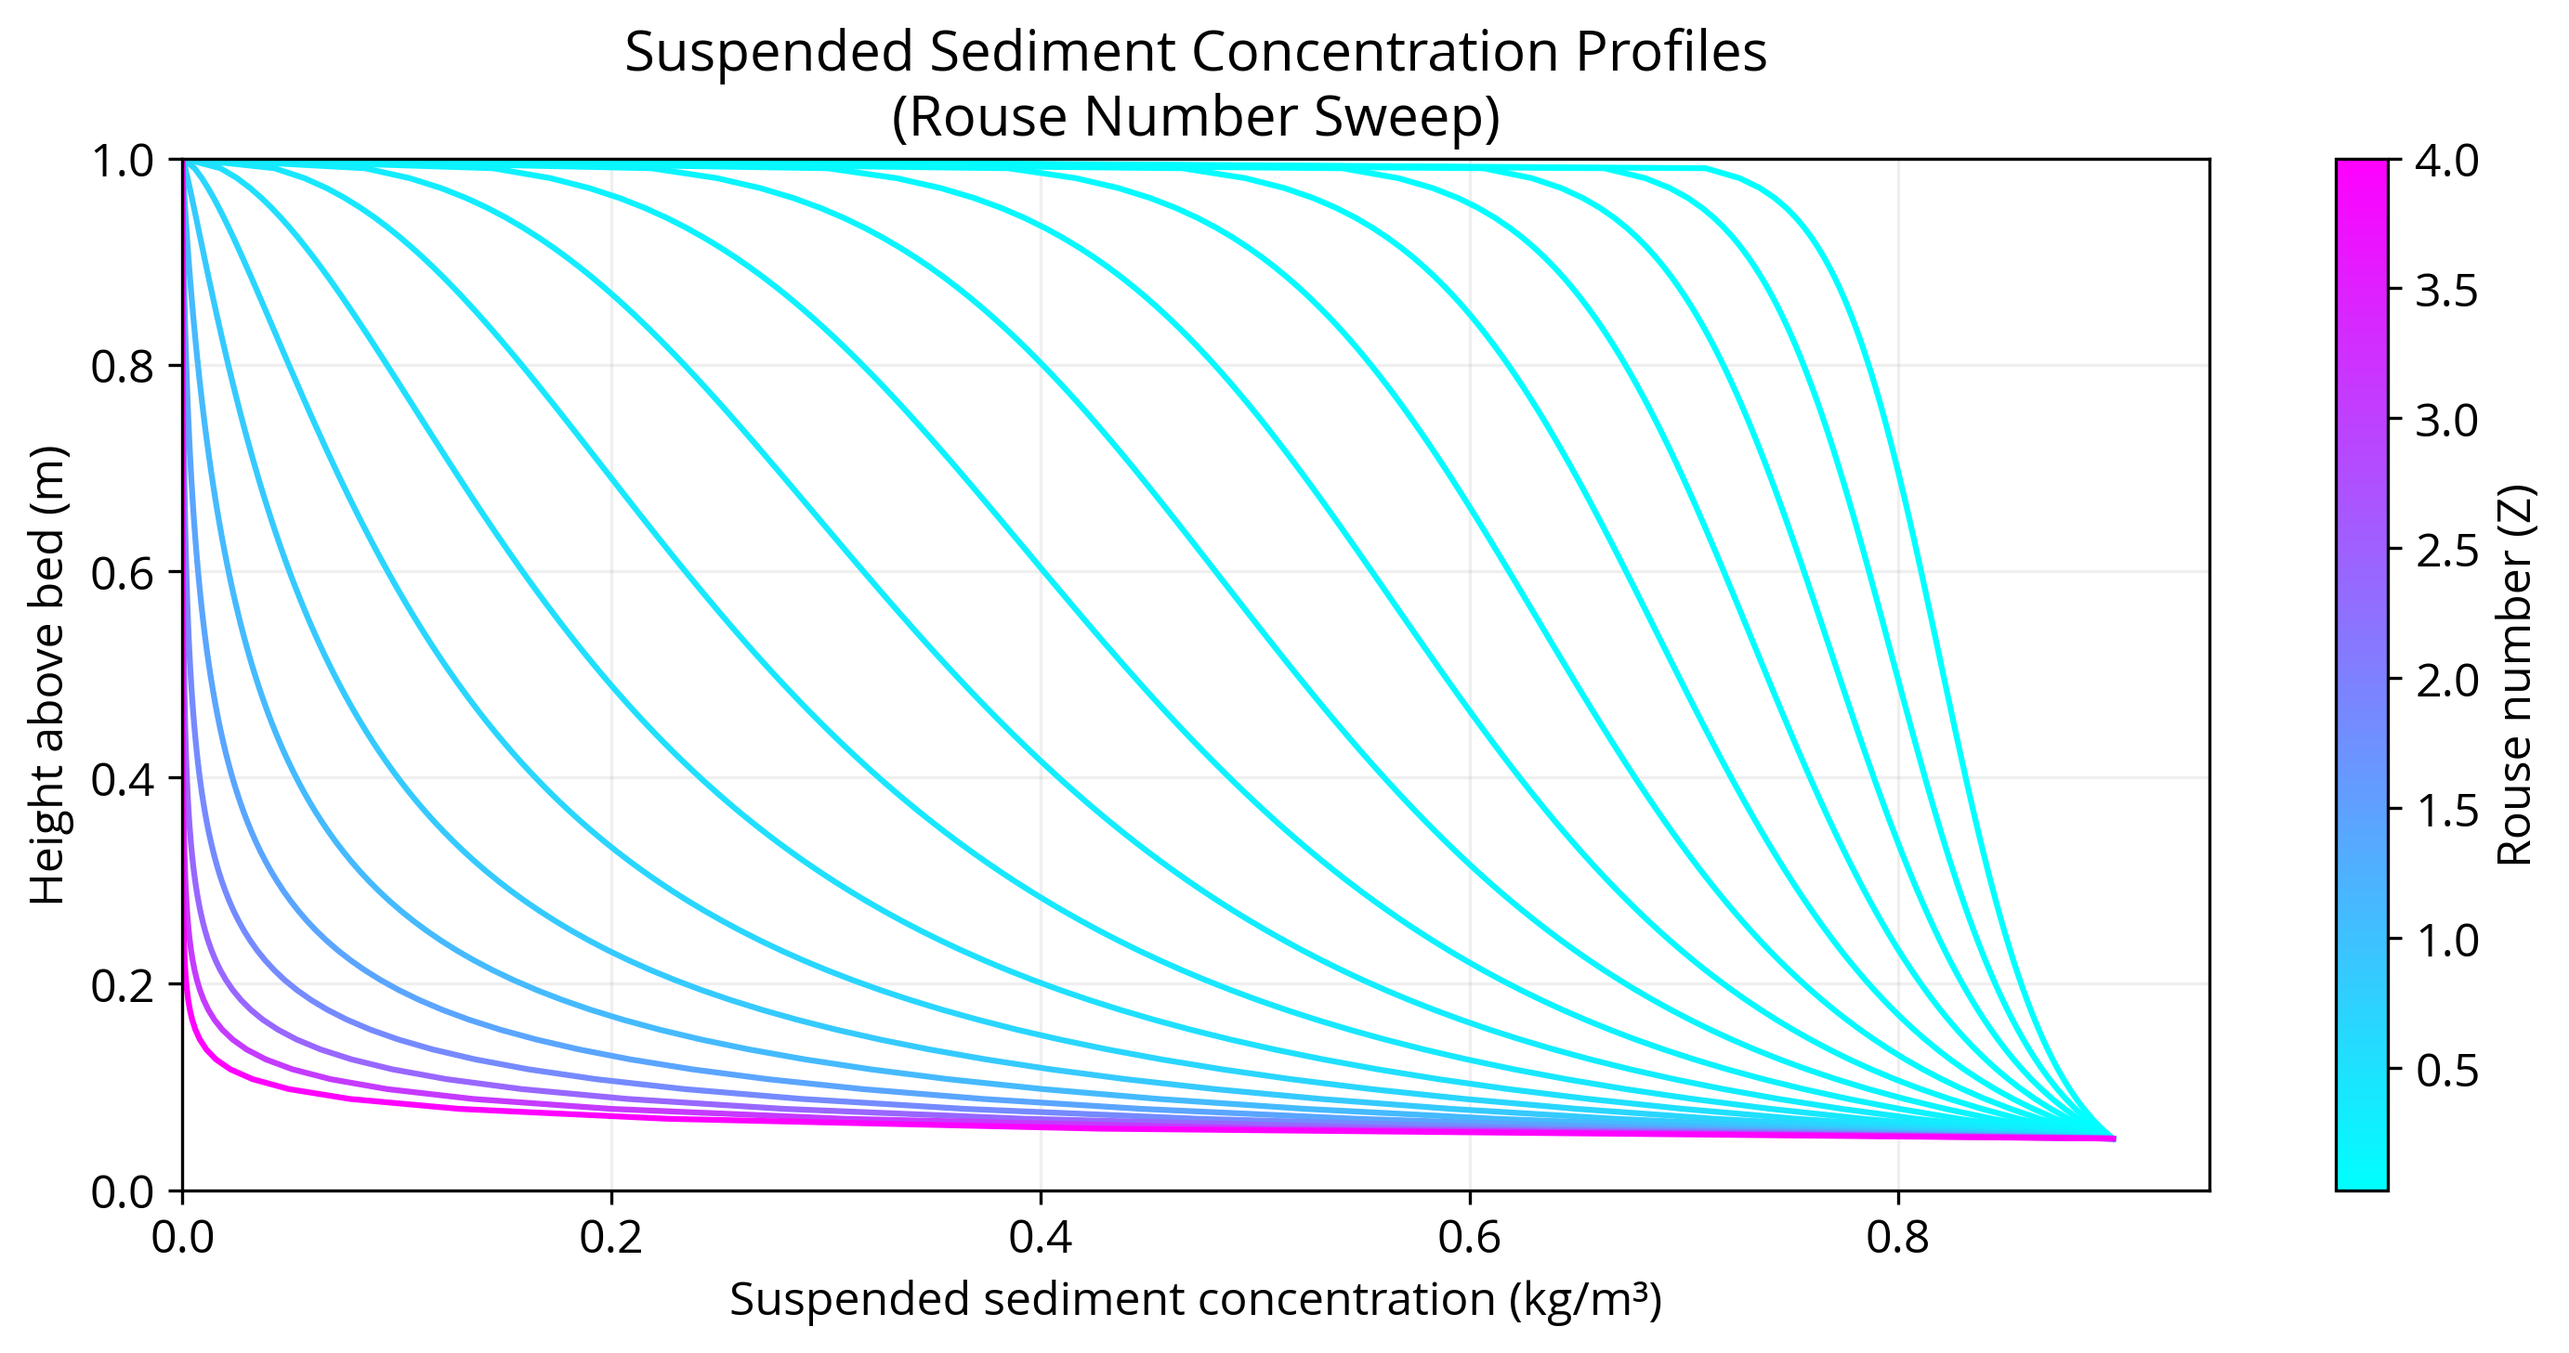
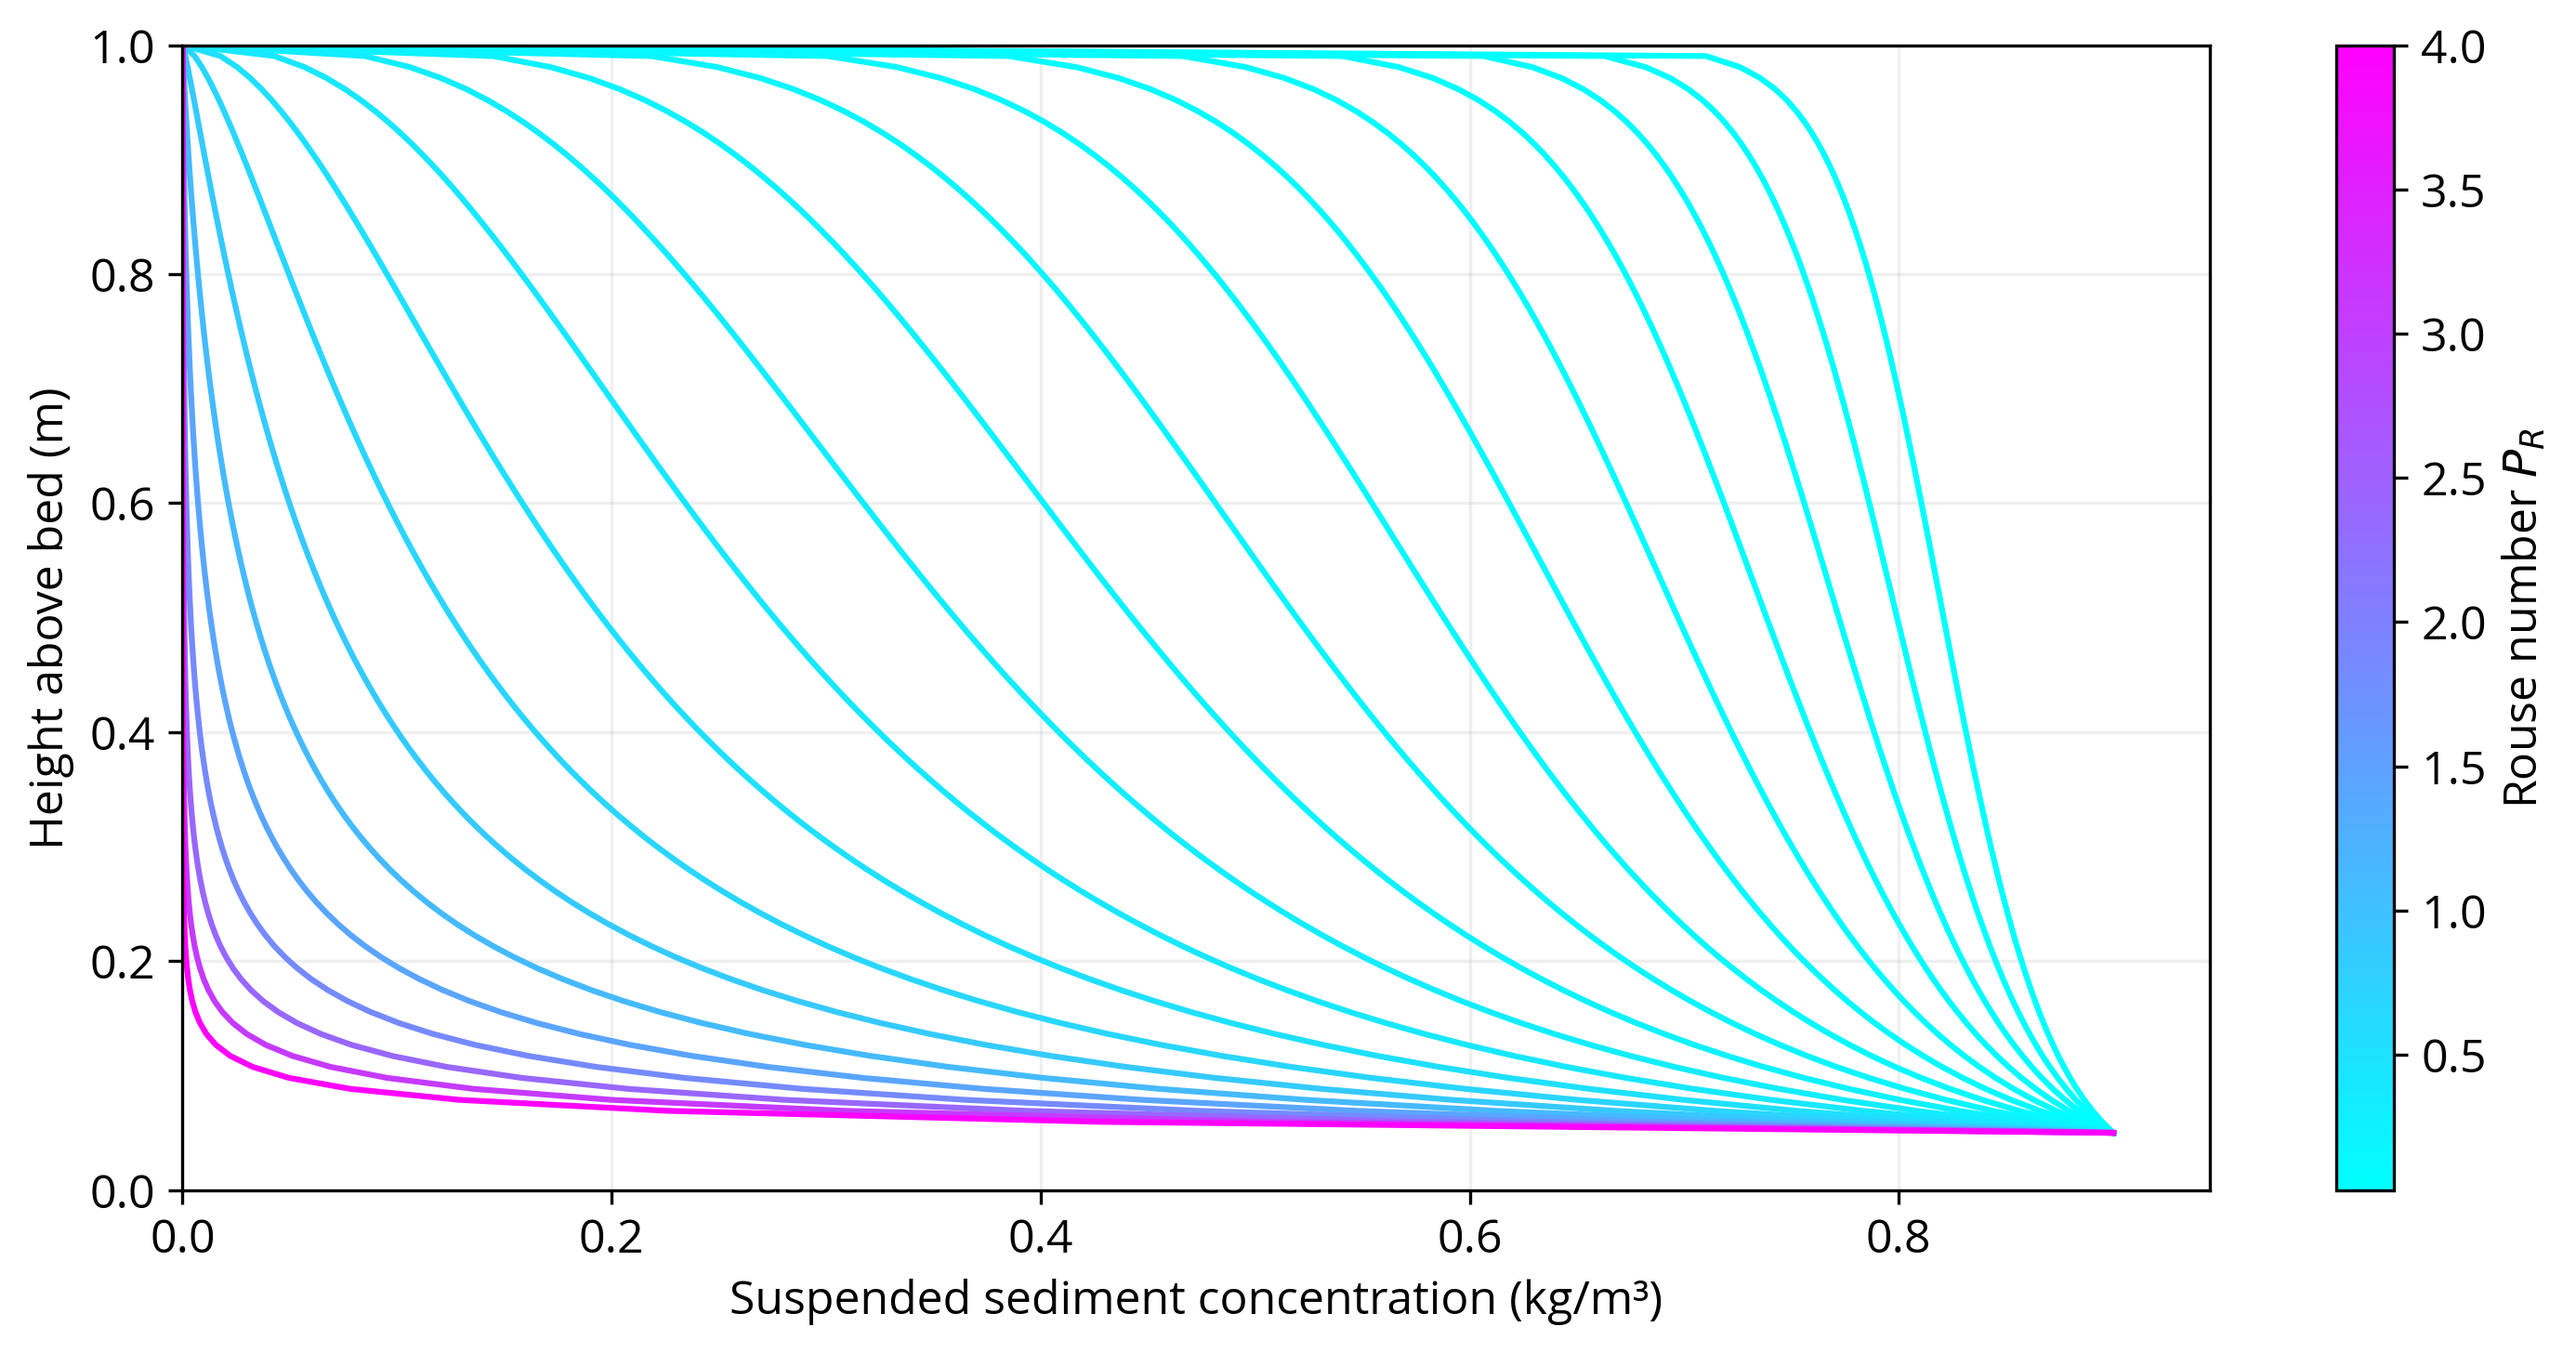
added sweep function

diff --git a/Rouse-profile-app/plot_Rouse_profile_ssc.py b/Rouse-profile-app/plot_Rouse_profile_ssc.py
@@ -155,13 +155,13 @@ def plot_rouse_sweep(a=USER_REF_HEIGHT,
     sm = plt.cm.ScalarMappable(cmap=cmap, norm=norm)
     sm.set_array([])
     cbar = plt.colorbar(sm, ax=ax)  # attach colorbar to current axes
-    cbar.set_label("Rouse number (Z)")
+    cbar.set_label("Rouse number $P_R$")
 
     ax.set_xlabel("Suspended sediment concentration (kg/m³)")
     ax.set_ylabel("Height above bed (m)")
     ax.set_xlim(left=0)
     ax.set_ylim([0, h])
-    ax.set_title("Suspended Sediment Concentration Profiles\n(Rouse Number Sweep)")
+    # ax.set_title("Suspended Sediment Concentration Profiles\n(Rouse Number Sweep)")
 
     plt.tight_layout()
     
